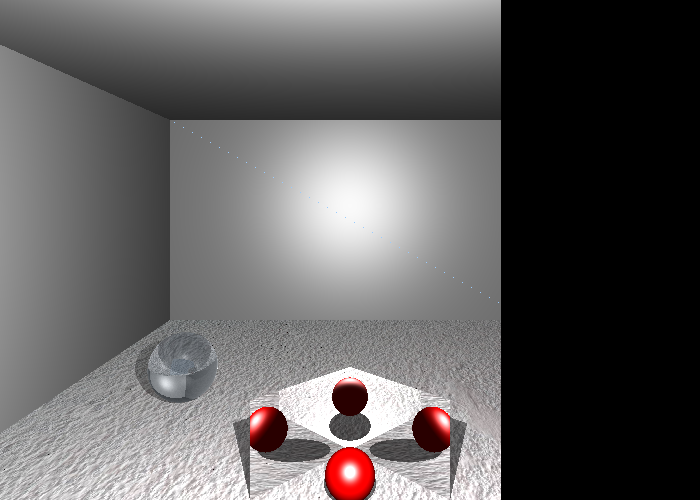
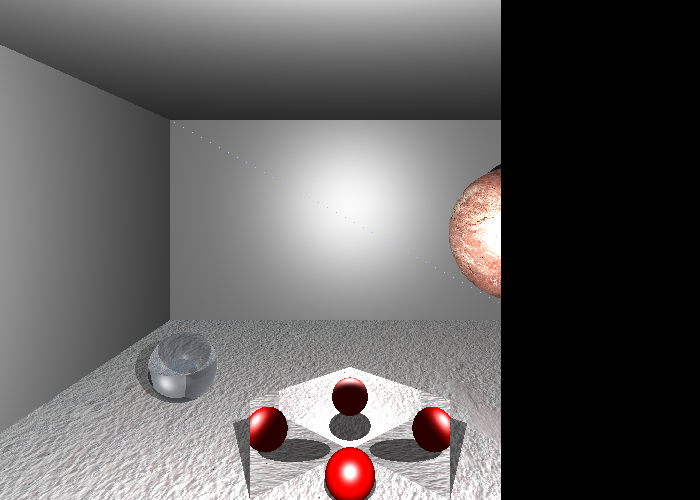
텍스쳐 입힌 구 하나 더 추가

Changed region(s): [[0.63, 0.33, 0.72, 0.6]]

diff --git a/scene/objs.py b/scene/objs.py
@@ -13,6 +13,14 @@ objs.append(
     )
 )
 
+phong = {'ka': Vector(1.0, 1.0, 1.0), 'kd': Vector(1.0, 1.0, 1.0), 'ks': Vector(1.0, 1.0, 1.0), 'shininess': 4}
+objs.append(
+    Sphere(
+        'MATT', phong, Vector(255, 0, 0), Vector(52, 0, 0), None, 'texture/sphere.jpg',
+        Vector(5, 0, -10), 2
+    )
+)
+
 # phong = {'ka': Vector(0.0, 0.0, 0.0), 'kd': Vector(0.0, 0.0, 0.0), 'ks': Vector(1.0, 1.0, 1.0), 'shininess': 4}
 # objs.append(
 #     Triangle(
